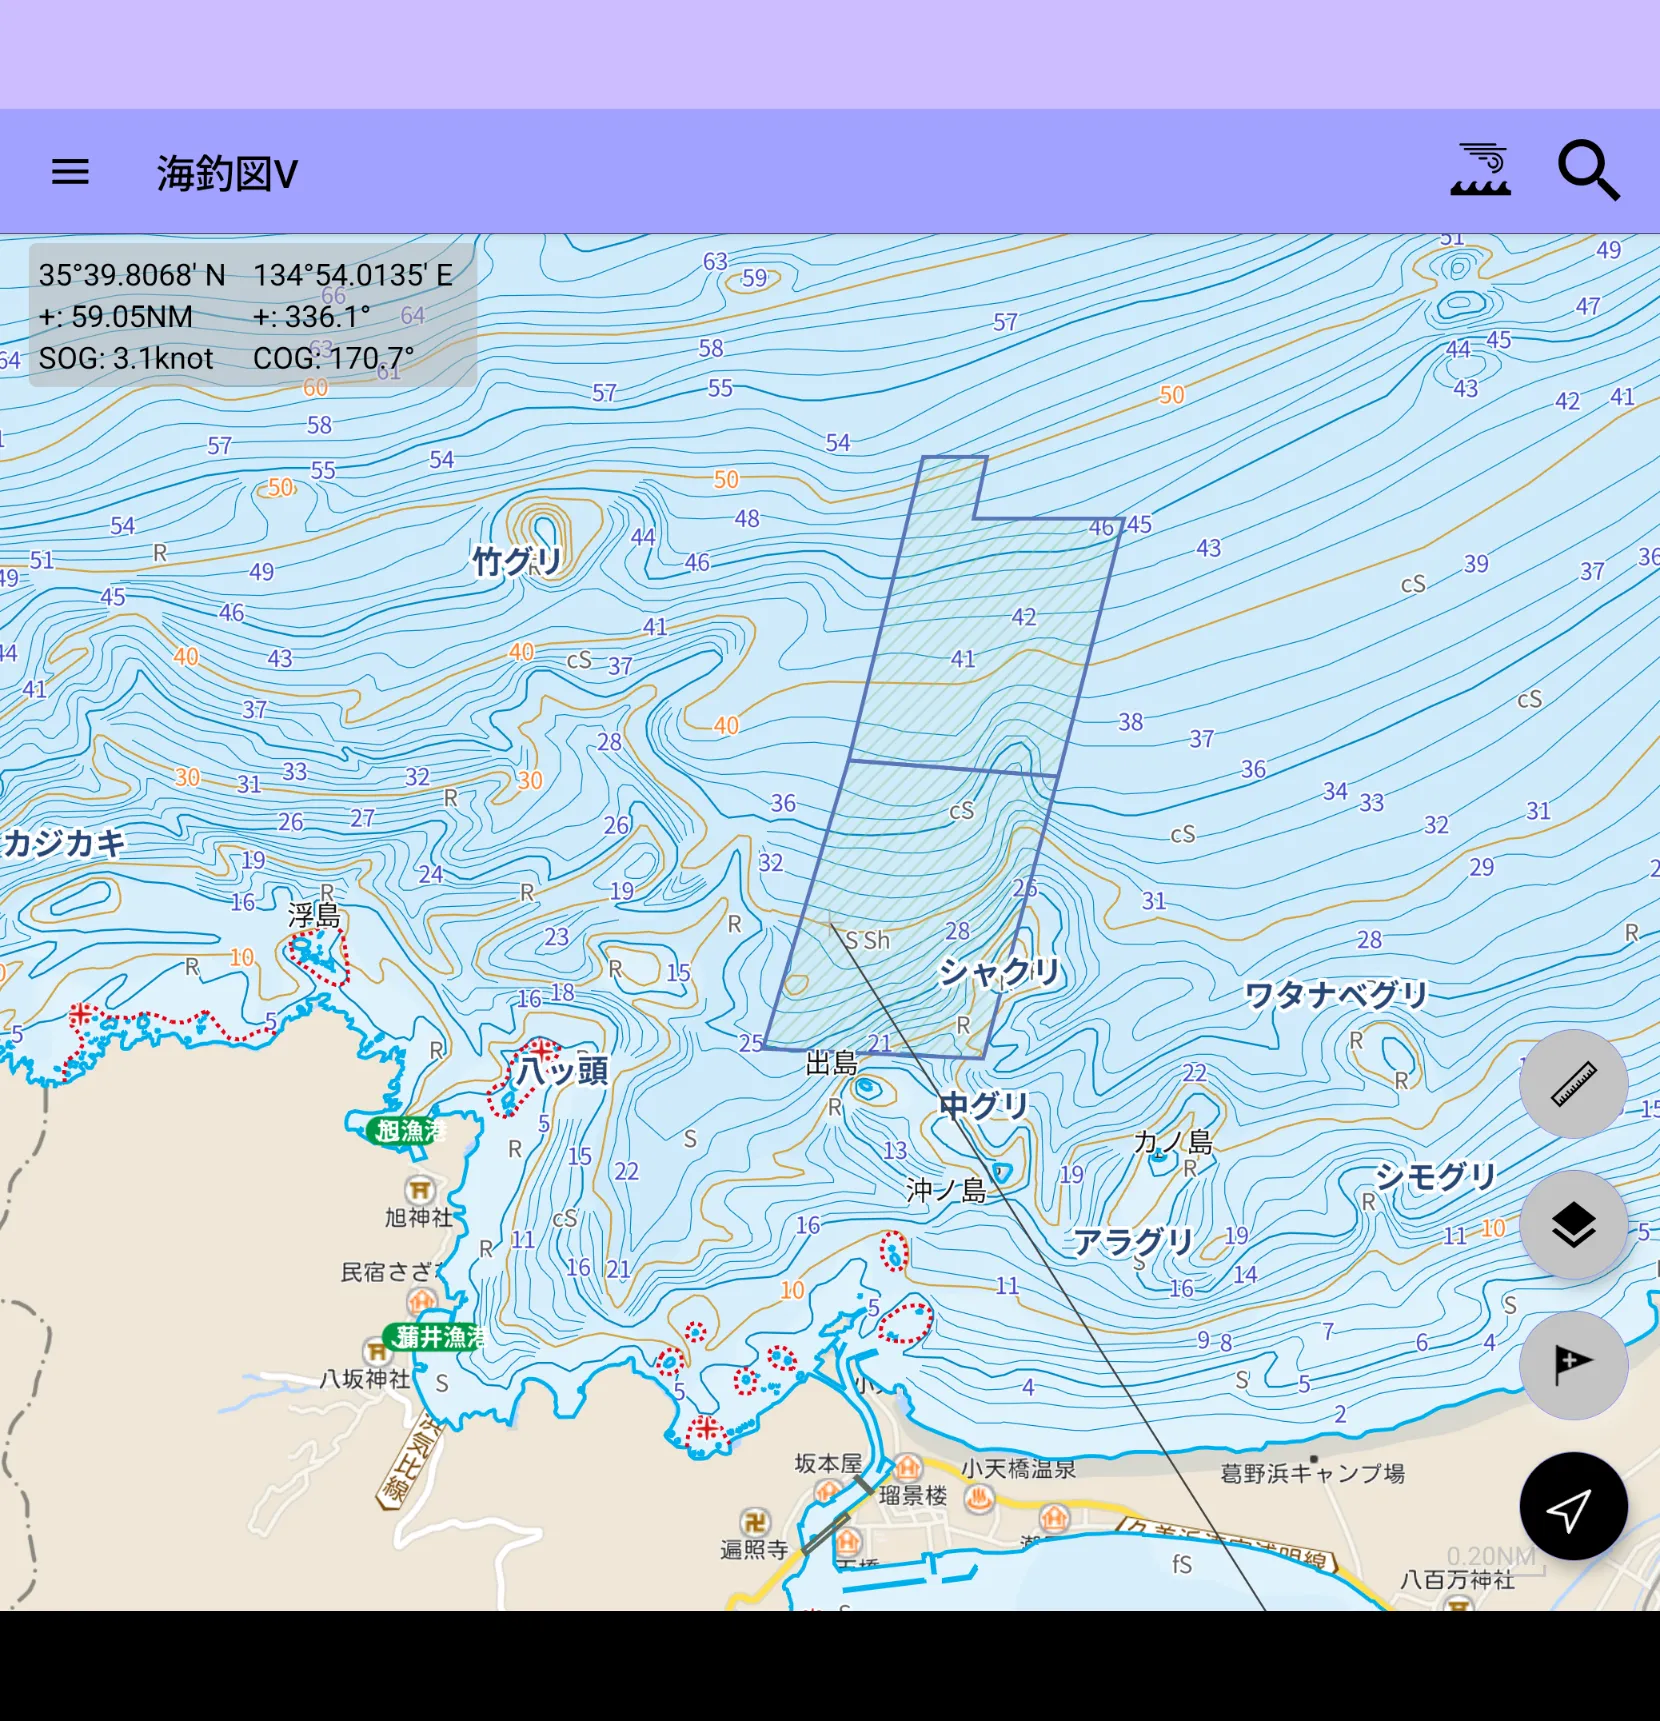
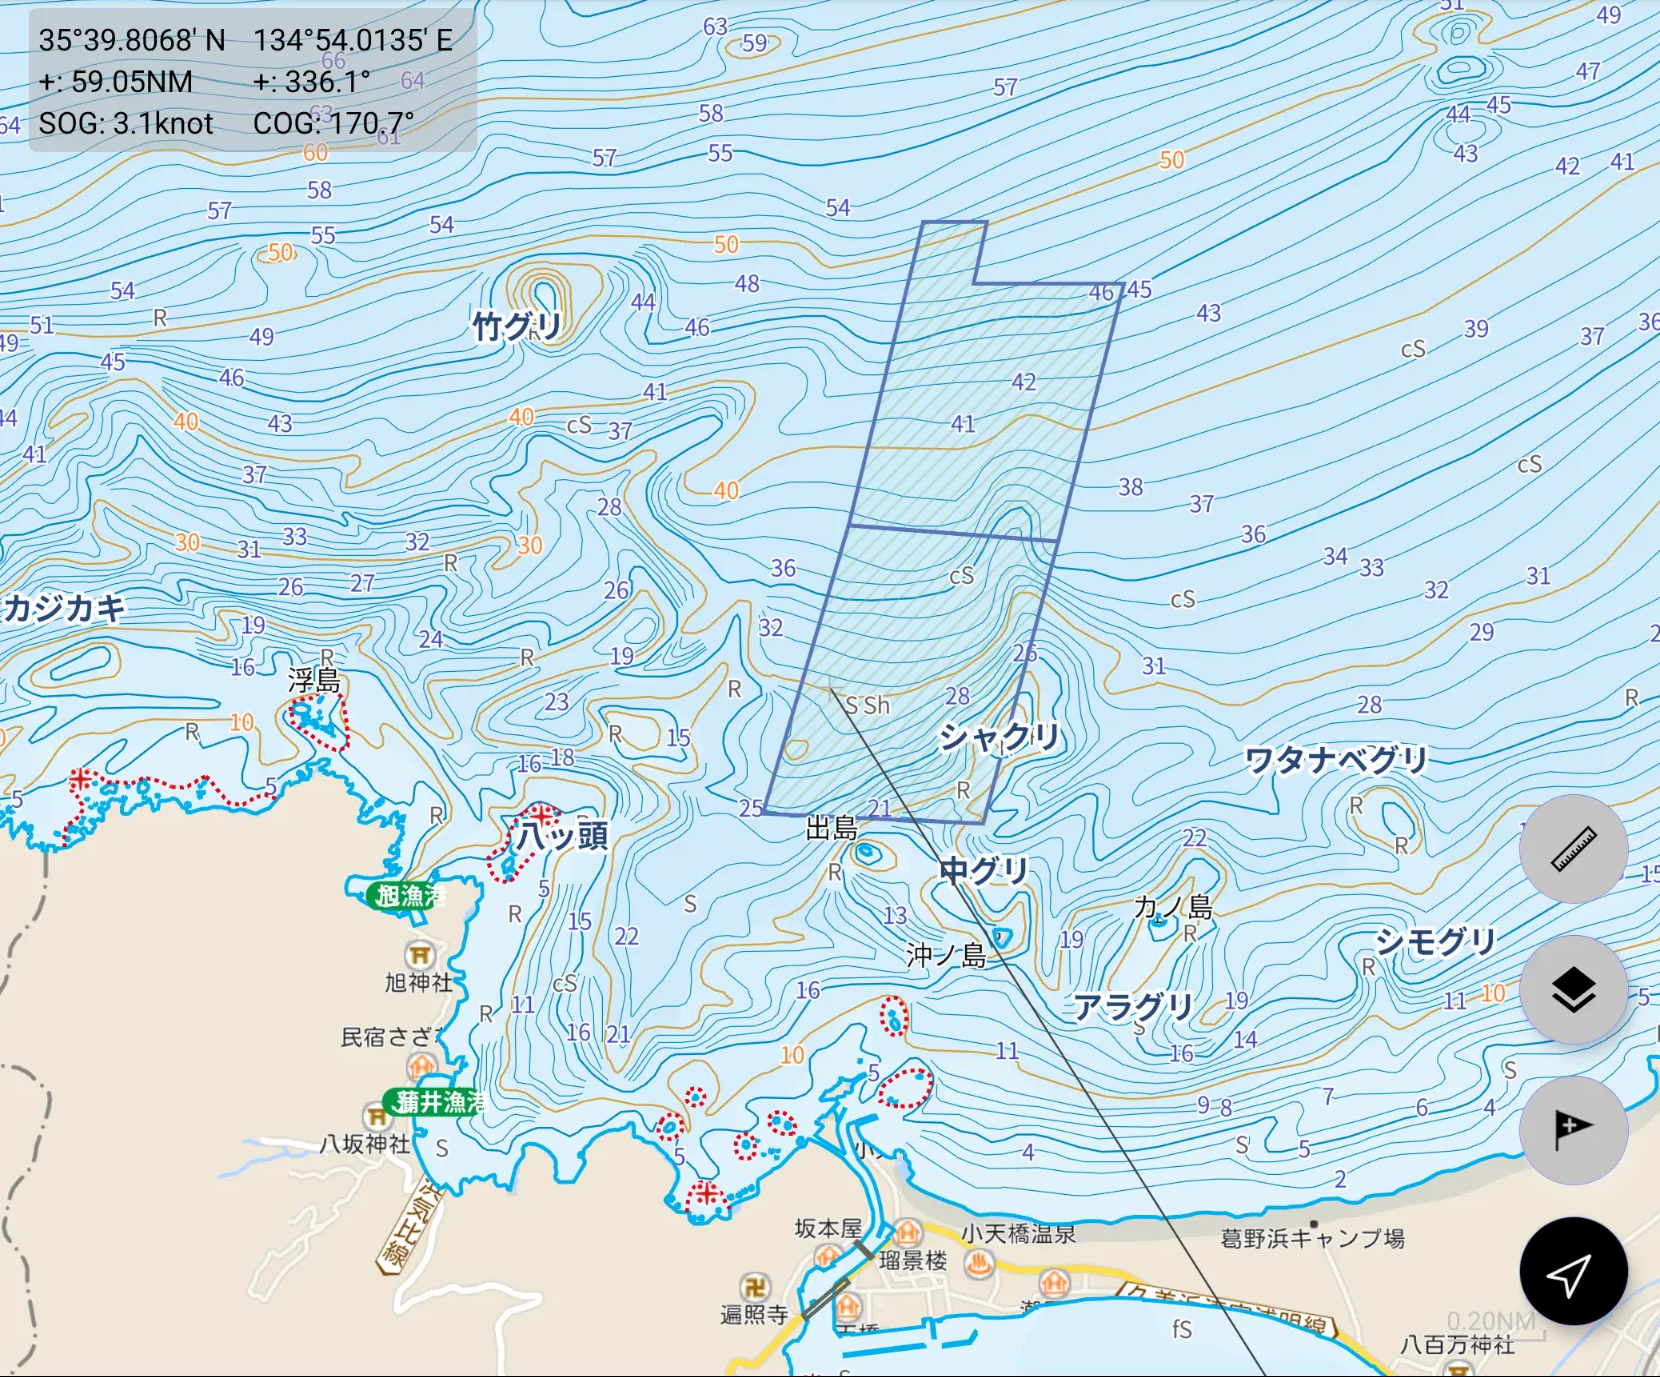
fix data

diff --git a/index.html b/index.html
@@ -73,7 +73,8 @@
 		<p>当時オーナーに自分が潜った本数がわからない、と相談したら 1000 本以上は潜ってるんだから、訊かれたらそういうことにしておけ、と言われました (いいのか？)。実際の経験本数はさすがに 1000 本だと計算が合いません。ですが 500 本は最低でも潜ってるなとは思います。</p>
 		<p>この 500 本という数字に意味があるのかと言われると「あるはずがない！！」と断言するのがぼくなのですが。本当に経験本数ほど当てにならない数字はないのです。そのことはインストラクター、ダイブマスター、アシスタント・インストラクターか、その経験者ならわかるはずです。</p>
 		<p>また一部わたしの<a href="https://mitsugu.github.io/likebar" class="external" target="_blank">雑記サイト</a>に書いたものと重複します。記憶違いで矛盾することを書いていたりするかもしれませんが、合わせてご了承ください。</p>
-		<dl class="loglist">
+		<!--<dl class="loglist">-->
+		<dl>
 		<dt>1987</dt>
 		<dd>
 			<ul>

diff --git a/2025/2025092102.html b/2025/2025092102.html
@@ -78,8 +78,8 @@
 		<div class="box temp-data">18</div>
 		<div class="box temp-data">12</div>
 		<div class="box temp-data">200</div>
-		<div class="box temp-data">50</div>
-		<div class="box temp-data">14.92</div>
+		<div class="box temp-data">60</div>
+		<div class="box temp-data">13.93</div>
 		<div class="box temp-data">13.2</div>
 		<div class="box temp-data">17.3</div>
 		<div class="box temp-data">10:22</div>

diff --git a/2025/2025092101.html b/2025/2025092101.html
@@ -79,7 +79,7 @@
 		<div class="box temp-data">12</div>
 		<div class="box temp-data">200</div>
 		<div class="box temp-data">50</div>
-		<div class="box temp-data">18.37</div>
+		<div class="box temp-data">19.96</div>
 		<div class="box temp-data">15.4</div>
 		<div class="box temp-data">21.9</div>
 		<div class="box temp-data">08:40</div>

diff --git a/2025/2025092302.html b/2025/2025092302.html
@@ -79,7 +79,7 @@
 		<div class="box temp-data">12</div>
 		<div class="box temp-data">200</div>
 		<div class="box temp-data">50</div>
-		<div class="box temp-data">14.81</div>
+		<div class="box temp-data">18.61</div>
 		<div class="box temp-data">14.8</div>
 		<div class="box temp-data">19.4</div>
 		<div class="box temp-data">10:15</div>

diff --git a/2025/2025092303.html b/2025/2025092303.html
@@ -79,7 +79,7 @@
 		<div class="box temp-data">12</div>
 		<div class="box temp-data">190</div>
 		<div class="box temp-data">40</div>
-		<div class="box temp-data">13.89</div>
+		<div class="box temp-data">14.88</div>
 		<div class="box temp-data">16.3</div>
 		<div class="box temp-data">22.6</div>
 		<div class="box temp-data">12:51</div>
